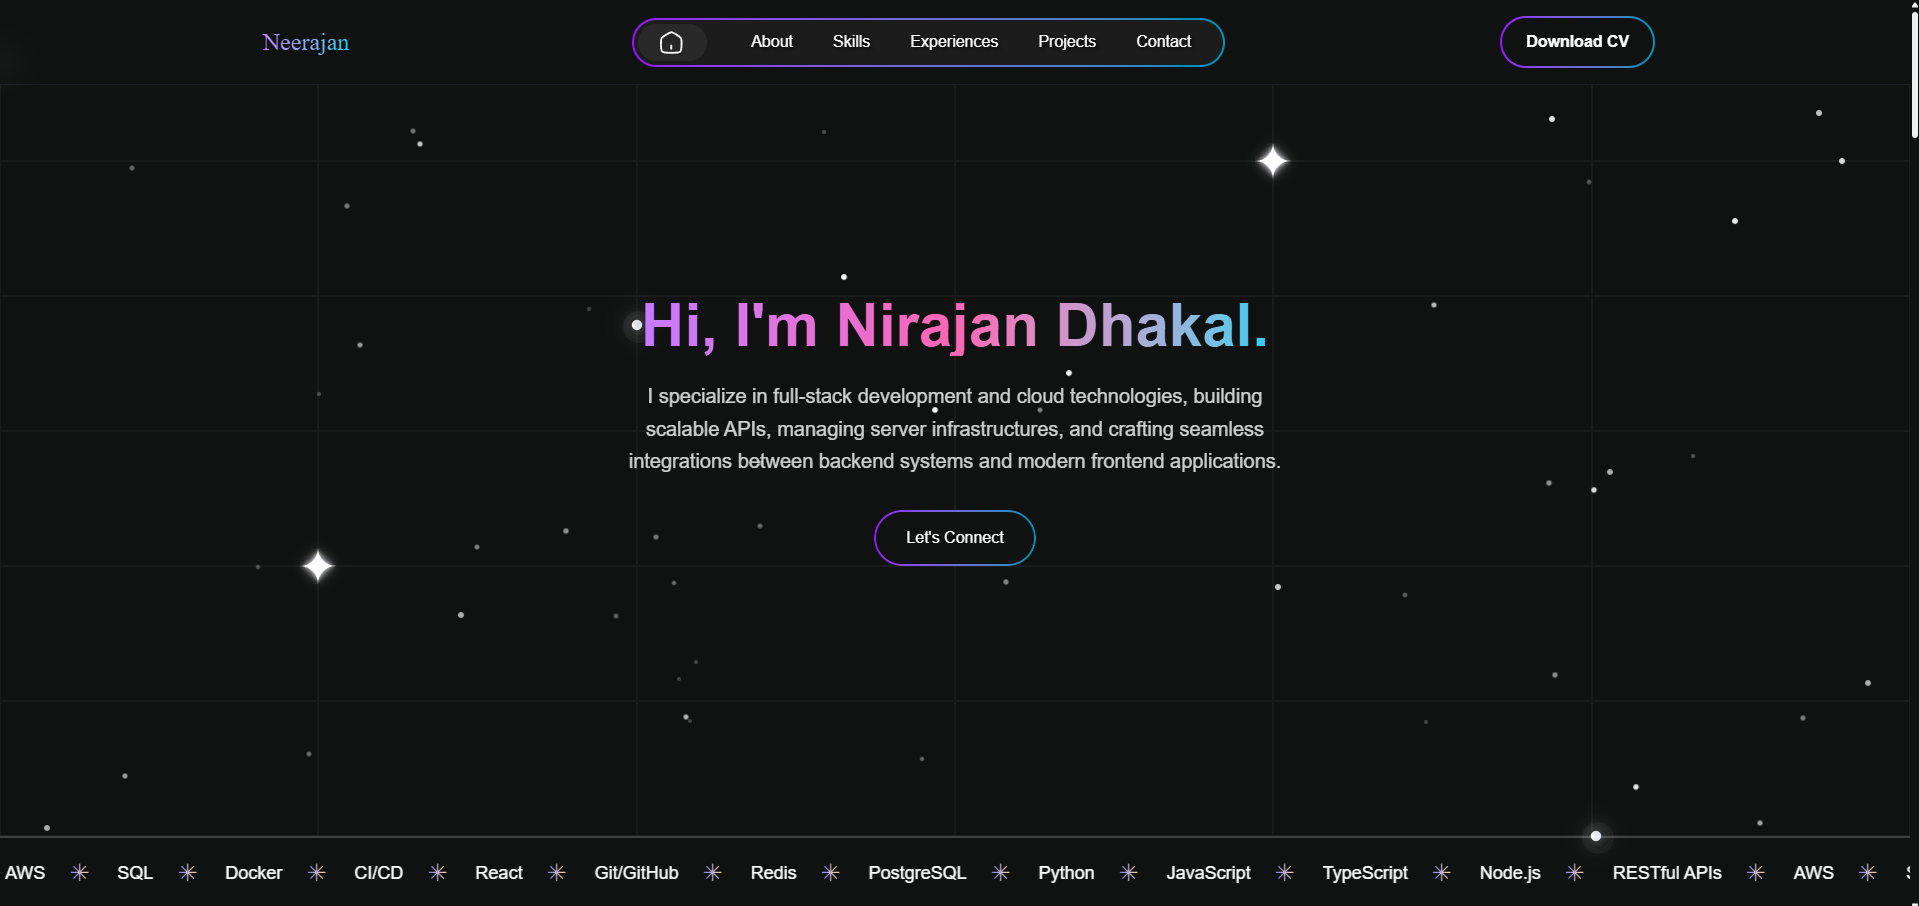
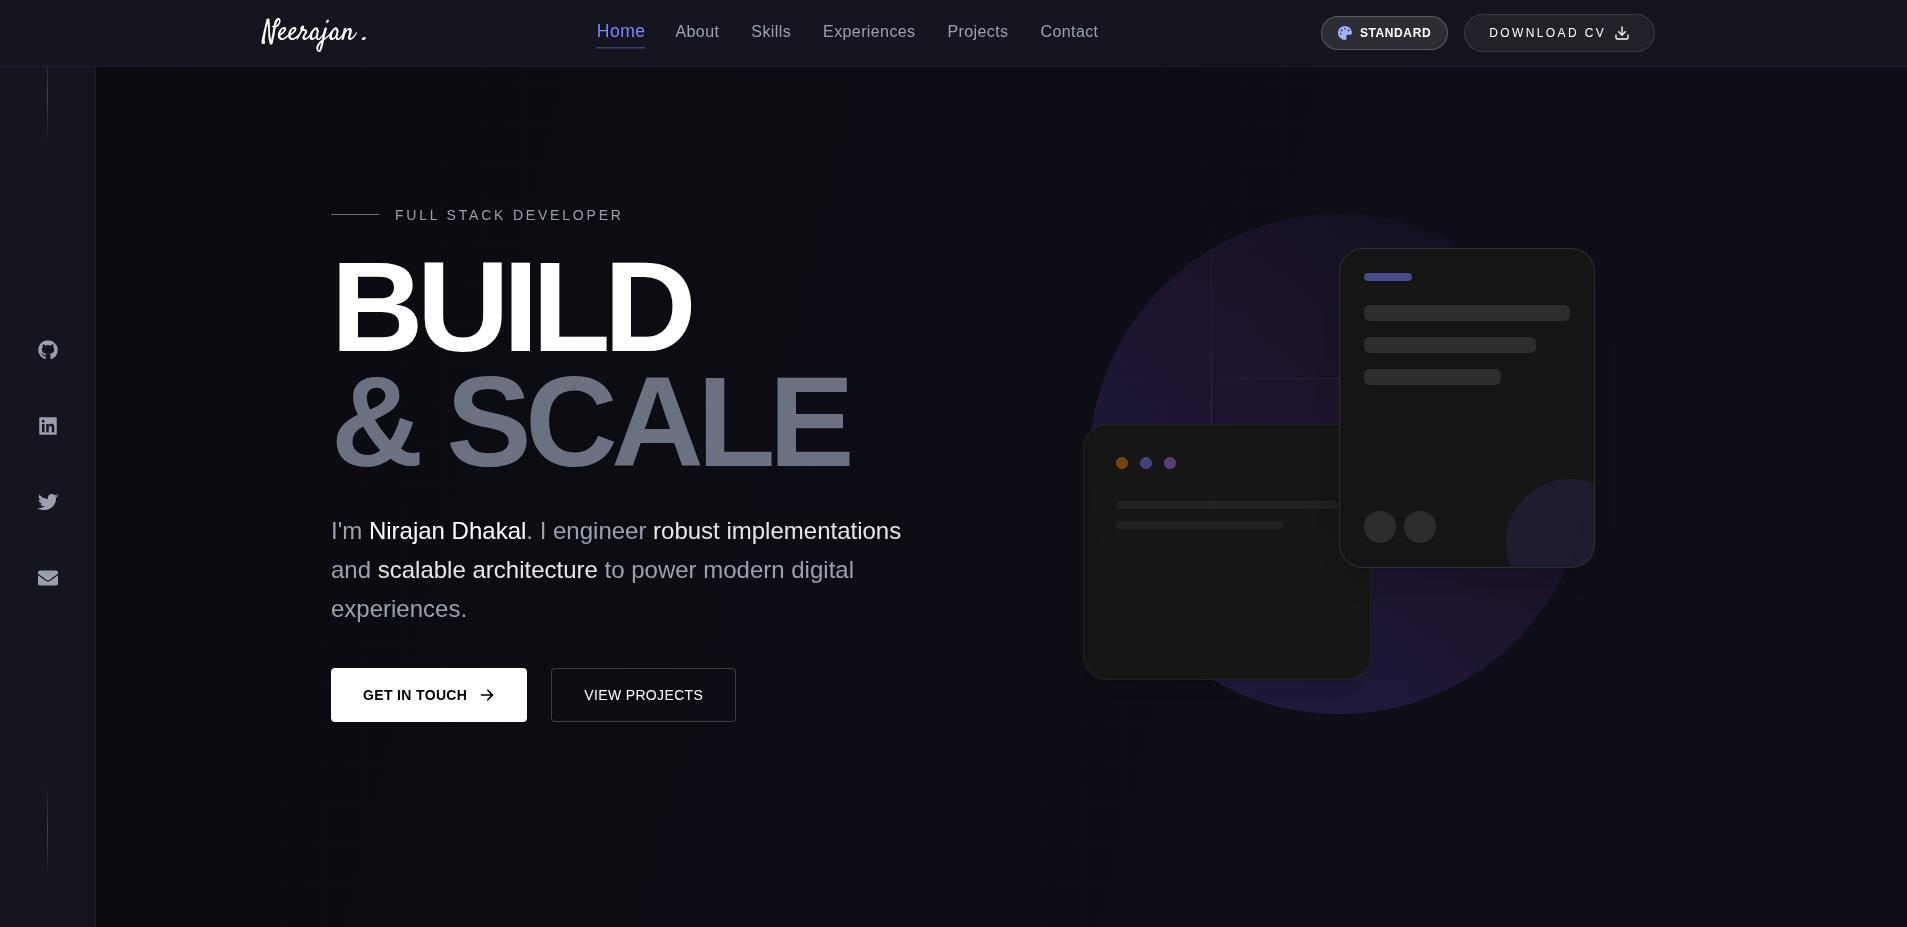
update meta image, and social links

diff --git a/src/components/shared/Hero.tsx b/src/components/shared/Hero.tsx
@@ -17,9 +17,9 @@ export default function Hero() {
 
   const socialLinks = [
     { icon: FaGithub, href: "https://github.com/Neerazan", label: "GitHub" },
-    { icon: FaLinkedin, href: "https://linkedin.com/in/nirajan-dhakal", label: "LinkedIn" },
-    { icon: FaTwitter, href: "https://twitter.com/nirajandhakal", label: "Twitter" },
-    { icon: FaEnvelope, href: "mailto:nirajandhakal@gmail.com", label: "Email" },
+    { icon: FaLinkedin, href: "https://www.linkedin.com/in/nirajan-dhakal-a49a36214/", label: "LinkedIn" },
+    { icon: FaTwitter, href: "https://www.linkedin.com/in/nirajan-dhakal-a49a36214/", label: "Twitter" },
+    { icon: FaEnvelope, href: "mailto:nirajandhakal634@gmail.com", label: "Email" },
   ];
 
   const containerVariants = {
